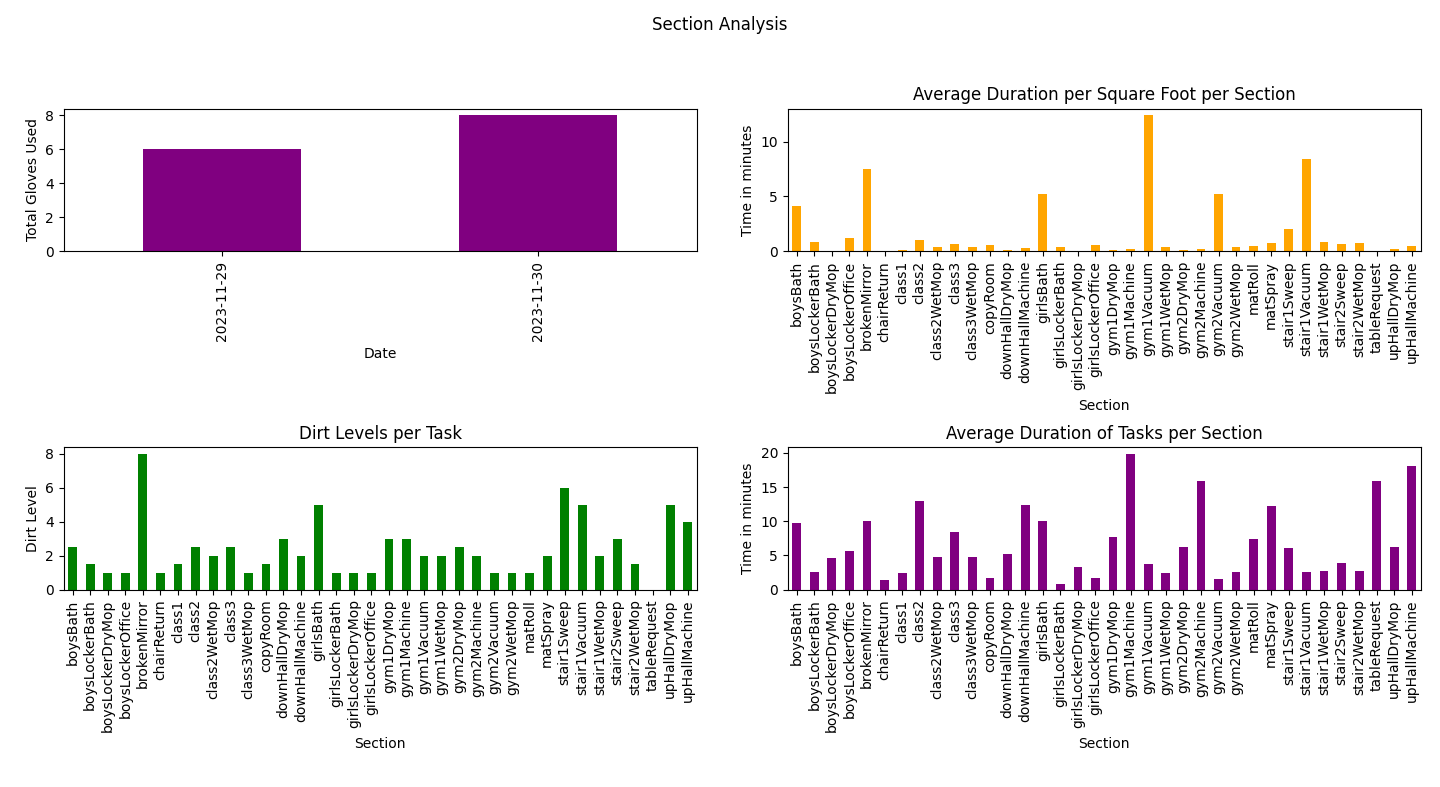
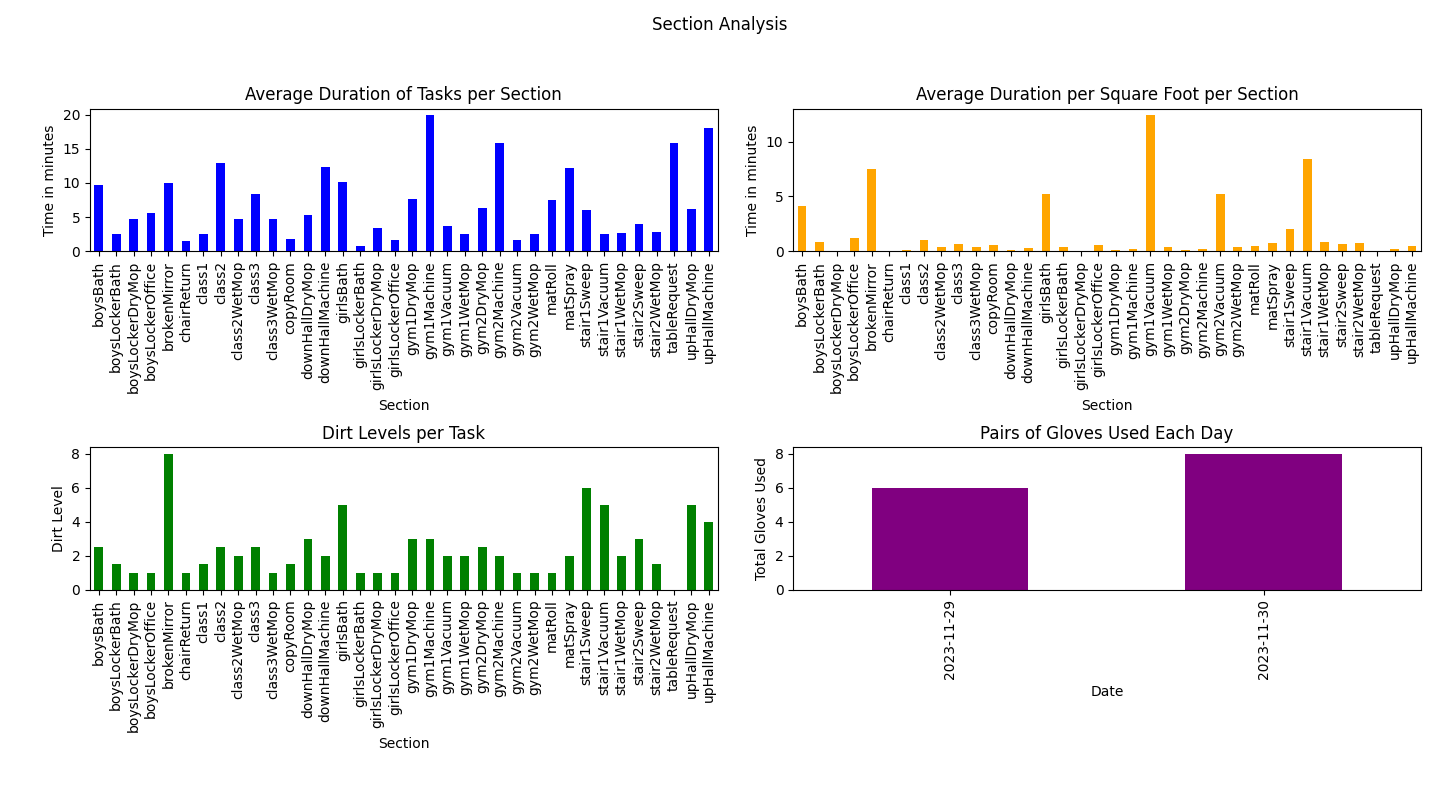
new graphs, updated/tweaks for old graphs, updated graph examples

diff --git a/dailyAverageTaskDuration.py b/dailyAverageTaskDuration.py
@@ -1,0 +1,26 @@
+import pandas as pd
+import matplotlib.pyplot as plt
+from matplotlib.dates import DateFormatter
+
+# Load the data from the CSV file
+df = pd.read_csv('task_completion_log.csv')
+
+# Convert the 'Date' column to datetime format
+df['Date'] = pd.to_datetime(df['Date'])
+
+# Convert the 'Duration' column to timedelta
+df['Duration'] = pd.to_timedelta(df['Duration'])
+
+# Plotting example
+fig, ax = plt.subplots(figsize=(10, 6))
+fig.suptitle('Daily Average Task Duration')
+
+# Bar Plot: Daily average task duration
+df.groupby(df['Date'].dt.strftime('%Y-%m-%d'))['Duration'].mean().dt.total_seconds().div(60).plot(kind='bar', color='orange', ax=ax)
+ax.set_xlabel('Date')
+ax.set_ylabel('Average Task Duration (minutes)')
+
+# Adjust layout for better appearance
+plt.tight_layout(rect=[0, 0.03, 1, 0.95])
+
+plt.show()

diff --git a/dailyAverageDirtLevel.py b/dailyAverageDirtLevel.py
@@ -1,0 +1,22 @@
+import pandas as pd
+import matplotlib.pyplot as plt
+
+# Load the data from the CSV file
+df = pd.read_csv('task_completion_log.csv')
+
+# Convert the 'Date' column to datetime format
+df['Date'] = pd.to_datetime(df['Date'])
+
+# Plotting example for Daily Average Dirt Level (Bar Graph)
+fig, ax = plt.subplots(figsize=(10, 6))
+fig.suptitle('Daily Average Dirt Level')
+
+# Bar Plot: Daily average dirt level
+df.groupby(df['Date'].dt.strftime('%Y-%m-%d'))['Dirt Level'].mean().plot(kind='bar', color='green', ax=ax)
+ax.set_xlabel('Date')
+ax.set_ylabel('Average Dirt Level')
+
+# Adjust layout for better appearance
+plt.tight_layout(rect=[0, 0.03, 1, 0.95])
+
+plt.show()

diff --git a/dirtLevelsWeekdays.py b/dirtLevelsWeekdays.py
@@ -1,0 +1,22 @@
+import pandas as pd
+import matplotlib.pyplot as plt
+
+# Load the data from the CSV file
+df = pd.read_csv('task_completion_log.csv')
+
+# Convert the 'Date' column to datetime format
+df['Date'] = pd.to_datetime(df['Date'])
+
+# Extract the day of the week and create a new column
+df['DayOfWeek'] = df['Date'].dt.day_name()
+
+# Plotting example
+fig, ax = plt.subplots(figsize=(10, 6))
+fig.suptitle('Average Dirt Levels by Day of Week')
+
+# Plot: Average dirt levels by day of week
+df.groupby('DayOfWeek')['Dirt Level'].mean().plot(kind='bar', color='green', ax=ax)
+ax.set_xlabel('Day of Week')
+ax.set_ylabel('Average Dirt Level')
+
+plt.show()

diff --git a/generalAnalysis.py b/generalAnalysis.py
@@ -25,13 +25,7 @@ axes[0, 0].set_title('Average Duration of Tasks per Section')
 axes[0, 0].set_xlabel('Section')
 axes[0, 0].set_ylabel('Time in minutes')
 
-# Plot 3: Dirt level distribution
-#df['Dirt Level'].plot(ax=axes[1, 0], kind='hist', bins=10, color='green', edgecolor='black')
-#axes[1, 0].set_title('Distribution of Dirt Levels')
-#axes[1, 0].set_xlabel('Dirt Level')
-#axes[1, 0].set_ylabel('Frequency')
-
-# Plot 2: Dirt levels per task
+# Plot 2b: Dirt levels per task
 df.groupby('Section')['Dirt Level'].mean().plot(ax=axes[1, 0], kind='bar', color='green')
 axes[1, 0].set_title('Dirt Levels per Task')
 axes[1, 0].set_xlabel('Section')

diff --git a/dirtLevelDist.py b/dirtLevelDist.py
@@ -1,0 +1,16 @@
+import pandas as pd
+import matplotlib.pyplot as plt
+
+# Load the data from the CSV file
+df = pd.read_csv('task_completion_log.csv')
+
+# Plotting example for Dirt Level distribution
+fig, ax = plt.subplots(figsize=(8, 6))
+fig.suptitle('Distribution of Dirt Levels')
+
+# Histogram: Dirt level distribution
+df['Dirt Level'].plot(kind='hist', bins=10, color='green', edgecolor='black', ax=ax)
+ax.set_xlabel('Dirt Level')
+ax.set_ylabel('Frequency')
+
+plt.show()
